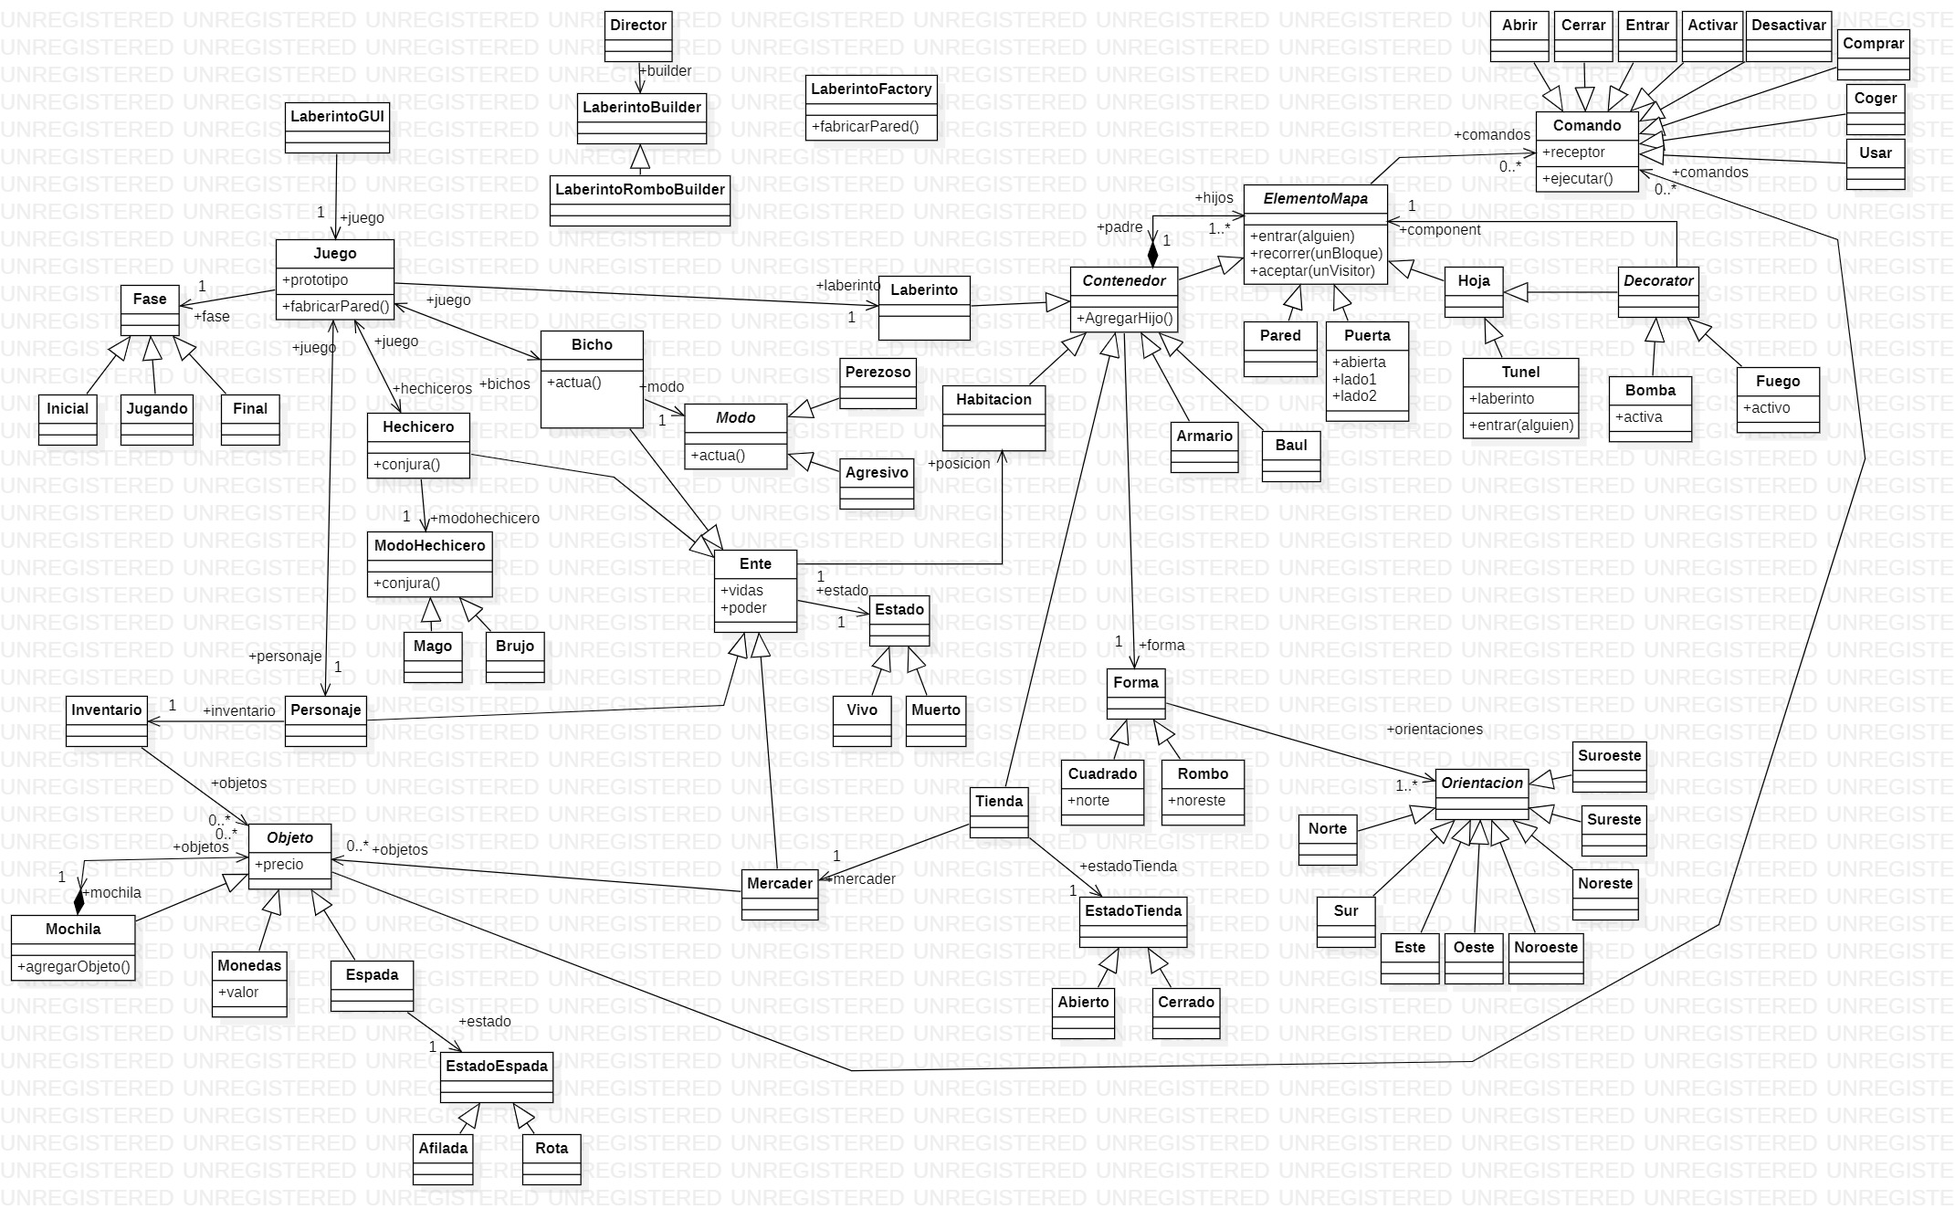
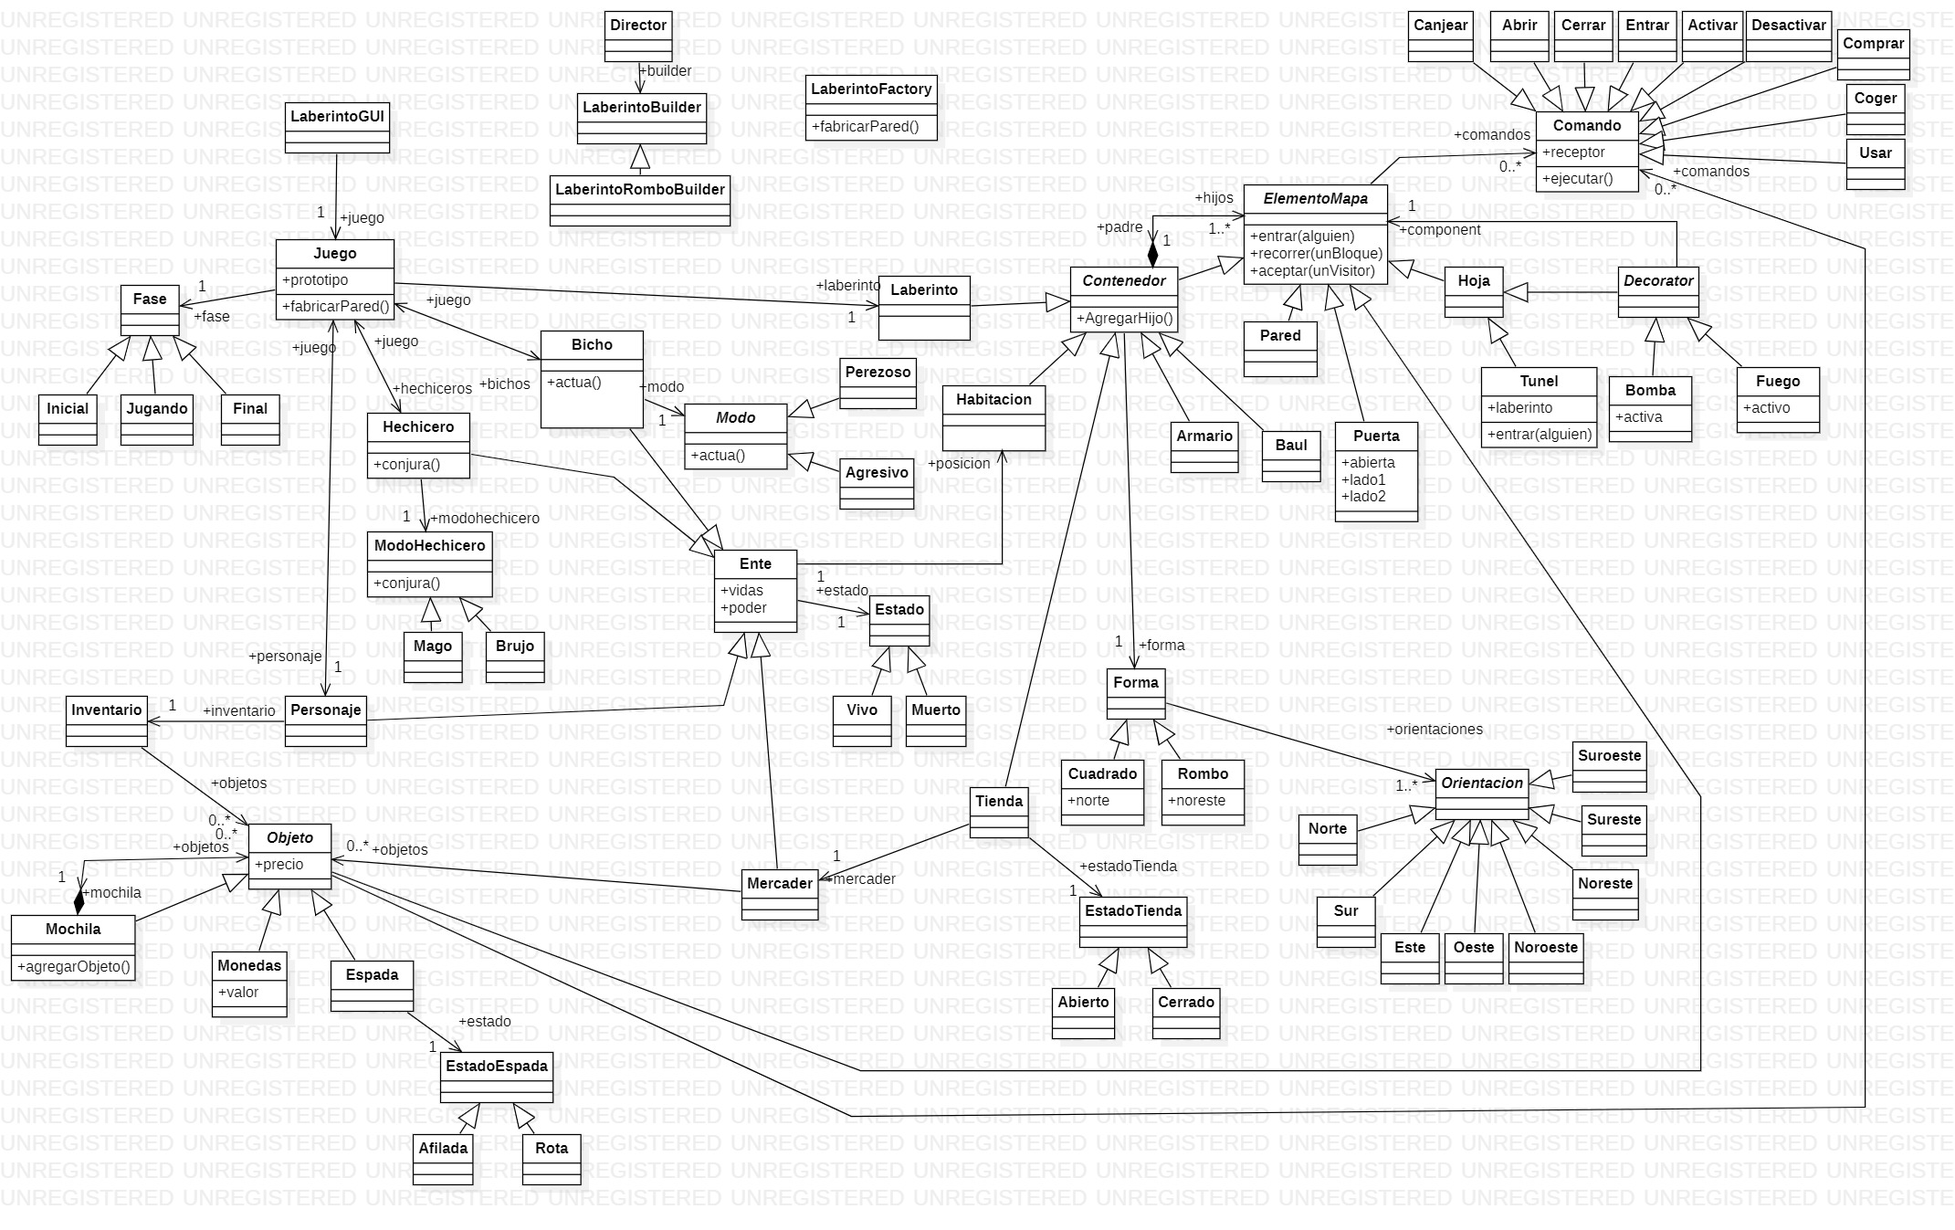
Cambios en playground, cambio de JSONs y comando Canjear

diff --git a/LaberintoGUI.py b/LaberintoGUI.py
@@ -457,10 +457,11 @@ class LaberintoGUI():
 
                     if mouse_pos is not None and rect_comando.collidepoint(mouse_pos):
                         # Realiza acciones según el comando del objeto
-                        if comando.esUsar():
+                        if comando.esUsar() or comando.esCanjear():
                             comando.ejecutar(self.juego.personaje)
-                            print("EJECUTANDO COMANDO: ",comando)
-                                # self.redibujar()
+                            if comando.esCanjear():
+                                self.celda_seleccionada = None
+                                
                     else:
                         pygame.draw.rect(self.screen, (50, 50, 50), rect_comando)
 
@@ -563,6 +564,9 @@ class LaberintoGUI():
     def mostrarObjetosInventario(self, mouse_pos):
         if self.juego.personaje.inventario.objetos.__len__() > 0:
             
+            rect_fondo = pygame.Rect(1171, 436, 172, 172)
+            pygame.draw.rect(self.screen, (50, 50, 50), rect_fondo)
+            
             for i, obj in enumerate(self.juego.personaje.inventario.objetos):
                 # Calcula las coordenadas de fila y columna
                 fila = i // 3  # Cada fila contendrá 3 objetos
@@ -595,6 +599,12 @@ class LaberintoGUI():
                     mochila_x = x + (56 - mochila.get_width()) // 2  # Ajuste de posición en x
                     mochila_y = y + (56 - mochila.get_height()) // 2  # Ajuste de posición en y
                     self.screen.blit(mochila, (mochila_x, mochila_y))
+                elif obj.esMoneda():
+                    moneda = pygame.image.load("graphics/moneda.png").convert_alpha()
+                    moneda = pygame.transform.scale(moneda, (40, 40))
+                    moneda_x = x + (56 - moneda.get_width()) // 2
+                    moneda_y = y + (56 - moneda.get_height()) // 2
+                    self.screen.blit(moneda, (moneda_x, moneda_y))
 
                 # Verifica si se hizo clic en la celda actual
                 if mouse_pos is not None and rect_comando.collidepoint(mouse_pos):
@@ -610,11 +620,12 @@ class LaberintoGUI():
                 y_seleccionada = 440 + fila_seleccionada * 56
                 rect_seleccionada = pygame.Rect(x_seleccionada, y_seleccionada, 56, 56)
                 pygame.draw.rect(self.screen, (255, 215, 0), rect_seleccionada, 4)
+
             
-
-
-
+                
+            
             pygame.display.update()
+
     def deseleccionarObjeto(self):
         self.celda_seleccionada = None
         mouse_pos = pygame.mouse.get_pos()
@@ -935,7 +946,7 @@ class LaberintoGUI():
     def dibujarMochila(self,unaMochila,unPuntoX,unPuntoY,ancho,alto):
         mochila = pygame.image.load("graphics/mochila.png").convert_alpha()
         mochila = pygame.transform.scale(mochila,(33,39))
-        self.screen.blit(mochila,(unPuntoX+ancho/2-90,unPuntoY+20))
+        self.screen.blit(mochila,(unPuntoX+ancho/2-90,unPuntoY+32))
         
 
     def visitarPuerta(self,unaPuerta):
@@ -957,7 +968,20 @@ class LaberintoGUI():
         extentX = unaPared.padre.forma.extentX
         extentY = unaPared.padre.forma.extentY
         self.dibujarPared(unaPared.padre.forma,puntoX,puntoY,extentX,extentY)
-        
+    
+    def visitarMoneda(self,unaMoneda):
+        # print('Moneda visitada')
+        #dibujar
+        unPuntoX = unaMoneda.padre.forma.puntoX
+        unPuntoY = unaMoneda.padre.forma.puntoY
+        ancho = unaMoneda.padre.forma.extentX
+        alto = unaMoneda.padre.forma.extentY
+        self.dibujarMoneda(unaMoneda,unPuntoX,unPuntoY,ancho,alto)
+
+    def dibujarMoneda(self,unaMoneda,unPuntoX,unPuntoY,ancho,alto):
+        moneda = pygame.image.load("graphics/moneda.png").convert_alpha()
+        moneda = pygame.transform.scale(moneda,(30,30))
+        self.screen.blit(moneda,(unPuntoX+ancho/2-180,unPuntoY+alto/2+30))
 
     def visitarTunel(self,unTunel):
         # print('Tunel visitado')

diff --git a/src/model/Entrar.py b/src/model/Entrar.py
@@ -1,3 +1,4 @@
+from src.model.Tunel import Tunel
 from src.model.Tienda import Tienda
 from src.model.Armario import Armario
 from src.model.Baul import Baul
@@ -15,25 +16,31 @@ class Entrar(Comando):
         return True
     
     def __str__(self):
-        if self.receptor.lado1 is not None and isinstance(self.receptor.lado1,Habitacion):
-          return "Entrar Pt-"+str(self.receptor.lado1.num) + "-"+str(self.receptor.lado2.num)+" (Habitacion)"
-        elif isinstance(self.receptor.lado1,Armario):
-            return "Entrar Pt-"+str(self.receptor.lado1.num) + "-"+str(self.receptor.lado2.num)+" (Armario)"
-        elif isinstance(self.receptor.lado1,Baul):
-            return "Entrar Pt-"+str(self.receptor.lado1.num) + "-"+str(self.receptor.lado2.num)+" (Baúl)"
-        elif isinstance(self.receptor.lado1,Tienda):
-            return "Entrar Pt-"+str(self.receptor.lado1.num) + "-"+str(self.receptor.lado2.num)+" (Tienda)"
+        if not isinstance(self.receptor,Tunel):
+            if self.receptor.lado1 is not None and isinstance(self.receptor.lado1,Habitacion):
+                return "Entrar Pt-"+str(self.receptor.lado1.num) + "-"+str(self.receptor.lado2.num)+" (Habitacion)"
+            elif isinstance(self.receptor.lado1,Armario):
+                return "Entrar Pt-"+str(self.receptor.lado1.num) + "-"+str(self.receptor.lado2.num)+" (Armario)"
+            elif isinstance(self.receptor.lado1,Baul):
+                return "Entrar Pt-"+str(self.receptor.lado1.num) + "-"+str(self.receptor.lado2.num)+" (Baúl)"
+            elif isinstance(self.receptor.lado1,Tienda):
+                return "Entrar Pt-"+str(self.receptor.lado1.num) + "-"+str(self.receptor.lado2.num)+" (Tienda)"
+            else:
+                return "Entrar Pt-"+str(self.receptor.lado1.num) + "-"+str(self.receptor.lado2.num)
         else:
-          return "Entrar Pt-"+str(self.receptor.lado1.num) + "-"+str(self.receptor.lado2.num)
+            return "Entrar "+str(self.receptor)
     
     def __repr__(self):
-        if self.receptor.lado1 is not None and isinstance(self.receptor.lado1,Habitacion):
-          return "Entrar Pt-"+str(self.receptor.lado1.num) + "-"+str(self.receptor.lado2.num)+" (Habitacion)"
-        elif isinstance(self.receptor.lado1,Armario):
-            return "Entrar Pt-"+str(self.receptor.lado1.num) + "-"+str(self.receptor.lado2.num)+" (Armario)"
-        elif isinstance(self.receptor.lado1,Baul):
-            return "Entrar Pt-"+str(self.receptor.lado1.num) + "-"+str(self.receptor.lado2.num)+" (Baúl)"
-        elif isinstance(self.receptor.lado1,Tienda):
-            return "Entrar Pt-"+str(self.receptor.lado1.num) + "-"+str(self.receptor.lado2.num)+" (Tienda)"
+        if not isinstance(self.receptor,Tunel):
+            if self.receptor.lado1 is not None and isinstance(self.receptor.lado1,Habitacion):
+                return "Entrar Pt-"+str(self.receptor.lado1.num) + "-"+str(self.receptor.lado2.num)+" (Habitacion)"
+            elif isinstance(self.receptor.lado1,Armario):
+                return "Entrar Pt-"+str(self.receptor.lado1.num) + "-"+str(self.receptor.lado2.num)+" (Armario)"
+            elif isinstance(self.receptor.lado1,Baul):
+                return "Entrar Pt-"+str(self.receptor.lado1.num) + "-"+str(self.receptor.lado2.num)+" (Baúl)"
+            elif isinstance(self.receptor.lado1,Tienda):
+                return "Entrar Pt-"+str(self.receptor.lado1.num) + "-"+str(self.receptor.lado2.num)+" (Tienda)"
+            else:
+                return "Entrar Pt-"+str(self.receptor.lado1.num) + "-"+str(self.receptor.lado2.num)
         else:
-          return "Entrar Pt-"+str(self.receptor.lado1.num) + "-"+str(self.receptor.lado2.num)
+            return "Entrar "+str(self.receptor)

diff --git a/Playground.py b/Playground.py
@@ -15,21 +15,36 @@ while True:
         metodo = int(metodo)
 
         if metodo == 1:
-            opcion1 = input(Fore.MAGENTA+"¿Qué JSON quieres elegir para crear el laberinto?\n"+Style.RESET_ALL+Fore.LIGHTWHITE_EX+"1. Laberinto 2 habitaciones (VERTICAL)\n2. Laberinto 2 habitacion (HORIZONTAL)\n3. Laberinto 2 habitaciones y 2 armarios\n4. Laberinto 2 habitaciones y 2 bichos\n5. Laberinto 2 habitaciones y tunel\n6. Laberinto 4 habitaciones,4 armarios\n7. Laberinto 4 habitaciones, 4 armarios y 4 bichos\n8. Laberinto 4 habitaciones, 4 armarios, 4 bichos y tunel\n9. Laberinto 4 habitaciones, 4 armarios, 4 bichos y tunel ROMBO\n10. Laberinto 4 habitaciones, 4 armarios, 2 bichos, 2 hechiceros y tunel\n11. Laberinto 4 habitaciones, 4 armarios, 4 hechiceros y tunel\n"+Style.RESET_ALL)
+            opcion1 = input(Fore.MAGENTA + "¿Qué JSON quieres elegir para crear el laberinto?\n" + Style.RESET_ALL +
+                "1.  lab2Hab2Arm.json\n" +
+                "2.  lab2Hab2Bichos.json\n" +
+                "3.  lab2HabHorizontal.json\n" +
+                "4.  lab2HabTunel.json\n" +
+                "5.  lab2HabVertical.json\n" +
+                "6.  lab4Hab4Arm1Tienda4Entes.json\n" +
+                "7.  lab4Hab4Arm2Baul5Entes.json\n" +
+                "8.  lab4Hab4Arm2Tiendas5Entes.json\n" +
+                "9.  lab4Hab4Arm4BichosTunel.json\n" +
+                "10. lab4Hab4Arm4BichosTunelRombo.json\n" +
+                "11. lab4Hab4Arm4HechicerosTunel.json\n" + Style.RESET_ALL)
+
             opcion1 = int(opcion1)
+
             switch = {
-                1: 'laberintos/lab2HabVertical.json',
-                2: 'laberintos/lab2HabHorizontal.json',
-                3: 'laberintos/lab2Hab2Arm.json',
-                4: 'laberintos/lab2Hab2Bichos.json',
-                5: 'laberintos/lab2HabTunel.json',
-                6: 'laberintos/lab4Hab4Arm.json',
-                7: 'laberintos/lab4Hab4Arm4Bichos.json',
-                8: 'laberintos/lab4Hab4Arm4BichosTunel.json',
-                9: 'laberintos/lab4Hab4Arm4BichosTunelRombo.json',
-                10: 'laberintos/lab4Hab4Arm2Bichos2HechicerosTunel.json',
+                1: 'laberintos/lab2Hab2Arm.json',
+                2: 'laberintos/lab2Hab2Bichos.json',
+                3: 'laberintos/lab2HabHorizontal.json',
+                4: 'laberintos/lab2HabTunel.json',
+                5: 'laberintos/lab2HabVertical.json',
+                6: 'laberintos/lab4Hab4Arm1Tienda4Entes.json',
+                7: 'laberintos/lab4Hab4Arm2Baul5Entes.json',
+                8: 'laberintos/lab4Hab4Arm2Tiendas5Entes.json',
+                9: 'laberintos/lab4Hab4Arm4BichosTunel.json',
+                10: 'laberintos/lab4Hab4Arm4BichosTunelRombo.json',
                 11: 'laberintos/lab4Hab4Arm4HechicerosTunel.json'
             }
+
+
             unArchivo = switch.get(opcion1, "\n\nEl carácter ingresado no es correcto.\n\n")
             director = Director()
             director.procesar(unArchivo)

diff --git a/src/model/LaberintoBuilder.py b/src/model/LaberintoBuilder.py
@@ -1,3 +1,4 @@
+from src.model.Entrar import Entrar
 from src.model.Coger import Coger
 from src.model.Comprar import Comprar
 from src.model.Moneda import Moneda
@@ -76,13 +77,15 @@ class LaberintoBuilder():
         baul.ponerEnElemento(self.fabricarEste(),self.fabricarPared(baul))
         baul.ponerEnElemento(self.fabricarOeste(),self.fabricarPared(baul))
         baul.ponerEnElemento(self.fabricarSur(),self.fabricarPared(baul))
-        if contenido[0]['tipo'] == 'espada':
-            poder = contenido[0]['poder']
-            tipo = contenido[0]['tipo']
-            if tipo == 'espada':
+        for i in range(0,len(contenido)):
+            if contenido[i]['tipo'] == 'espada':
+                poder = contenido[i]['poder']
+                tipo = contenido[i]['tipo']
                 getattr(self, 'fabricar' + tipo.capitalize() + 'En')(baul,poder)
-        elif contenido[0]['tipo'] == 'mochila':
-            getattr(self, 'fabricar' + contenido[0]['tipo'].capitalize() + 'En')(baul)
+            elif contenido[i]['tipo'] == 'mochila':
+                getattr(self, 'fabricar' + contenido[i]['tipo'].capitalize() + 'En')(baul)
+            elif contenido[i]['tipo'] == 'moneda':
+                getattr(self, 'fabricar' + contenido[i]['tipo'].capitalize())(baul,contenido[i]['valor'])
         baul.agregarOrientacion(self.fabricarNorte())
         baul.agregarOrientacion(self.fabricarEste())
         baul.agregarOrientacion(self.fabricarOeste())
@@ -255,7 +258,9 @@ class LaberintoBuilder():
         return Sur()
     
     def fabricarTunel(self):
-        return Tunel()
+        tunel = Tunel()
+        tunel.agregarComando(Entrar(),tunel)
+        return tunel
     
     def fabricarTunelEn(self,unContenedor):
         unContenedor.agregarHijo(self.fabricarTunel())
@@ -317,5 +322,8 @@ class LaberintoBuilder():
             mercader.agregarObjeto(objeto,precio)
         return mercader
     
-    def fabricarMoneda(self,valor,ubicacion):
+    def fabricarMoneda(self,ubicacion,valor):
+        moneda = Moneda(valor,ubicacion)
+        moneda.agregarComando(Coger(),moneda)
+        ubicacion.agregarHijo(moneda)
         return Moneda(valor,ubicacion)

diff --git a/test_lab4Hab4Arm4HechicerosTunel.py b/test_lab4Hab4Arm4HechicerosTunel.py
@@ -1,6 +1,7 @@
 import unittest
 import os
 from colorama import init, Fore, Style
+from src.model.Afilada import Afilada
 from src.model.Cuadrado import Cuadrado
 from src.model.Rombo import Rombo
 from src.model.Director import Director
@@ -130,15 +131,13 @@ class Test(unittest.TestCase):
                     print("El baul "+str(hijo.num)+" no es nulo: ",Fore.GREEN+"Correct"+ Style.RESET_ALL)
                     self.assertEqual(hijo.esBaul(), True)
                     print("El baul "+str(hijo.num)+" es baul: ",Fore.GREEN+"Correct"+ Style.RESET_ALL)
-                    for hijos in hijo.hijos:
-                        if hijos.esEspada():
+                    for hijo in hijo.hijos:
+                        if hijo.esEspada():
                             print(Fore.MAGENTA+"\nEspada:"+ Style.RESET_ALL)
-                            self.assertEqual(hijo.hijos is not None, True)
-                            print("La espada "+str(hijo.num)+" no es nulo: ",Fore.GREEN+"Correct"+ Style.RESET_ALL)
-                            self.assertEqual(hijos.esEspada(), True)
-                            print("La espada "+str(hijo.num)+" es espada: ",Fore.GREEN+"Correct"+ Style.RESET_ALL)
-                            self.assertEqual(hijos.estado,True)
-                            print("La espada "+str(hijo.num)+" esta afilada: ",Fore.GREEN+"Correct"+ Style.RESET_ALL)
+                            self.assertEqual(hijo.esEspada(), True)
+                            print("La espada "+str(hijo)+" es espada: ",Fore.GREEN+"Correct"+ Style.RESET_ALL)
+                            self.assertTrue(isinstance(hijo.estado, Afilada))
+                            print("La espada "+str(hijo)+" esta afilada: ",Fore.GREEN+"Correct"+ Style.RESET_ALL)
 
                 elif hijo.esTunel():
                     print(Fore.MAGENTA+"\nTunel:"+ Style.RESET_ALL)

diff --git a/src/model/Moneda.py b/src/model/Moneda.py
@@ -2,23 +2,34 @@ from src.model.Objeto import Objeto
 
 
 class Moneda(Objeto):
-    # Aproximación de flyweight para reducir el uso de memoria y evitar la creación de objetos innecesarios 
-    instanciasMonedas = {}
-    def __new__(cls, valor,ubicacion):
-        if (valor,ubicacion) not in cls.instanciasMonedas:
-            cls.instanciasMonedas[(valor,ubicacion)] = super().__new__(cls)
-            cls.instanciasMonedas[(valor,ubicacion)].contador = 1
-        else:
-            cls.instanciasMonedas[(valor,ubicacion)].contador += 1
-        return cls.instanciasMonedas[(valor,ubicacion)]
+    # # Aproximación de flyweight para reducir el uso de memoria y evitar la creación de objetos innecesarios 
+    # instanciasMonedas = {}
+    # def __new__(cls, valor,ubicacion):
+    #     if (valor,ubicacion) not in cls.instanciasMonedas:
+    #         cls.instanciasMonedas[(valor,ubicacion)] = super(Moneda,cls).__new__(cls)
+    #         cls.instanciasMonedas[(valor,ubicacion)].contador = 1
+    #     else:
+    #         cls.instanciasMonedas[(valor,ubicacion)].contador += 1
+    #     return cls.instanciasMonedas[(valor,ubicacion)]
 
     def __init__(self, valor,ubicacion):
+        super().__init__()
         self.valor = valor
         self.ubicacion = ubicacion
 
-    def usarObjeto(self):
-        print(self)
+    def aceptar(self,unVisitor):
+        unVisitor.visitarMoneda(self)
 
+    def canjearValor(self, alguien):
+        alguien.dinero += self.valor
+        alguien.inventario.quitarObjeto(self)
+        for comando in self.comandos:
+            if comando.esCanjear():
+                self.quitarCanjear(comando)
+
+    def quitarCanjear(self, comando):
+        self.quitarComando(comando)
+    
     def esMoneda(self):
         return True
 

diff --git a/src/model/Inventario.py b/src/model/Inventario.py
@@ -1,3 +1,4 @@
+from src.model.Canjear import Canjear
 from src.model.Usar import Usar
 
 
@@ -24,6 +25,7 @@ class Inventario:
             self.quitarComprar(objeto)
         if any(comando.esCoger() for comando in objeto.comandos):
             self.quitarCoger(objeto)
+        
         # self.quitarCoger(objeto)
 
     def quitarComprar(self, objeto):
@@ -36,7 +38,10 @@ class Inventario:
        for comando in objeto.comandos:
             if comando.esCoger():
                 objeto.quitarComando(comando)
-            objeto.agregarComando(Usar(),objeto)
+            if objeto.esMoneda():
+                objeto.agregarComando(Canjear(),objeto)
+            else:
+                objeto.agregarComando(Usar(),objeto)
 
     def quitarObjeto(self, objeto):
         if objeto in self.objetos:

diff --git a/src/model/Director.py b/src/model/Director.py
@@ -56,6 +56,8 @@ class Director():
             tmp1 = self.builder.fabricarEspadaEn(root,laberinto['poder'])
         elif laberinto['tipo'] == 'mochila':
             tmp1 = self.builder.fabricarMochilaEn(root)
+        elif laberinto['tipo'] == 'moneda':
+            tmp1 = self.builder.fabricarMoneda(root,laberinto['valor'])
         
         hijos = laberinto.get('hijos', [])
         for hijo in hijos:

diff --git a/src/model/Espada.py b/src/model/Espada.py
@@ -24,7 +24,8 @@ class Espada(Objeto):
         for objeto in alguien.inventario.objetos:
             if objeto is not self:
                 if not any(comando.esUsar() for comando in objeto.comandos):
-                    objeto.agregarComando(Usar(),objeto)
+                    if objeto.esEspada():
+                        objeto.agregarComando(Usar(),objeto)
 
                     
                 

diff --git a/src/model/Canjear.py b/src/model/Canjear.py
@@ -1,0 +1,18 @@
+
+from src.model.Comando import Comando
+
+
+class Canjear(Comando):
+    
+    def ejecutar(self,alguien):
+        self.receptor.canjearValor(alguien)
+        alguien.notificar()
+    
+    def esCanjear(self):
+        return True
+    
+    def __str__(self):
+        return "Canjear "+str(self.receptor)
+      
+    def __repr__(self):
+        return "Canjear "+str(self.receptor)

diff --git a/src/model/Noroeste.py b/src/model/Noroeste.py
@@ -17,7 +17,7 @@ class Noroeste(Orientacion):
         unaHab.noroeste = unEM
 
     def obtenerComandosDe(self,unaForma):
-        return unaForma.noroeste.obtenerComandos()
+        return unaForma.noroeste.obtenerComandos(None)
     
     def recorrerEn(self, unBloque, unContenedor):
         if unContenedor.noroeste is not None:

diff --git a/src/model/Suroeste.py b/src/model/Suroeste.py
@@ -17,7 +17,7 @@ class Suroeste(Orientacion):
         unaHab.suroeste = unEM
 
     def obtenerComandosDe(self,unaForma):
-        return unaForma.suroeste.obtenerComandos()
+        return unaForma.suroeste.obtenerComandos(None)
     
     def recorrerEn(self, unBloque, unContenedor):
         if unContenedor.suroeste is not None:
